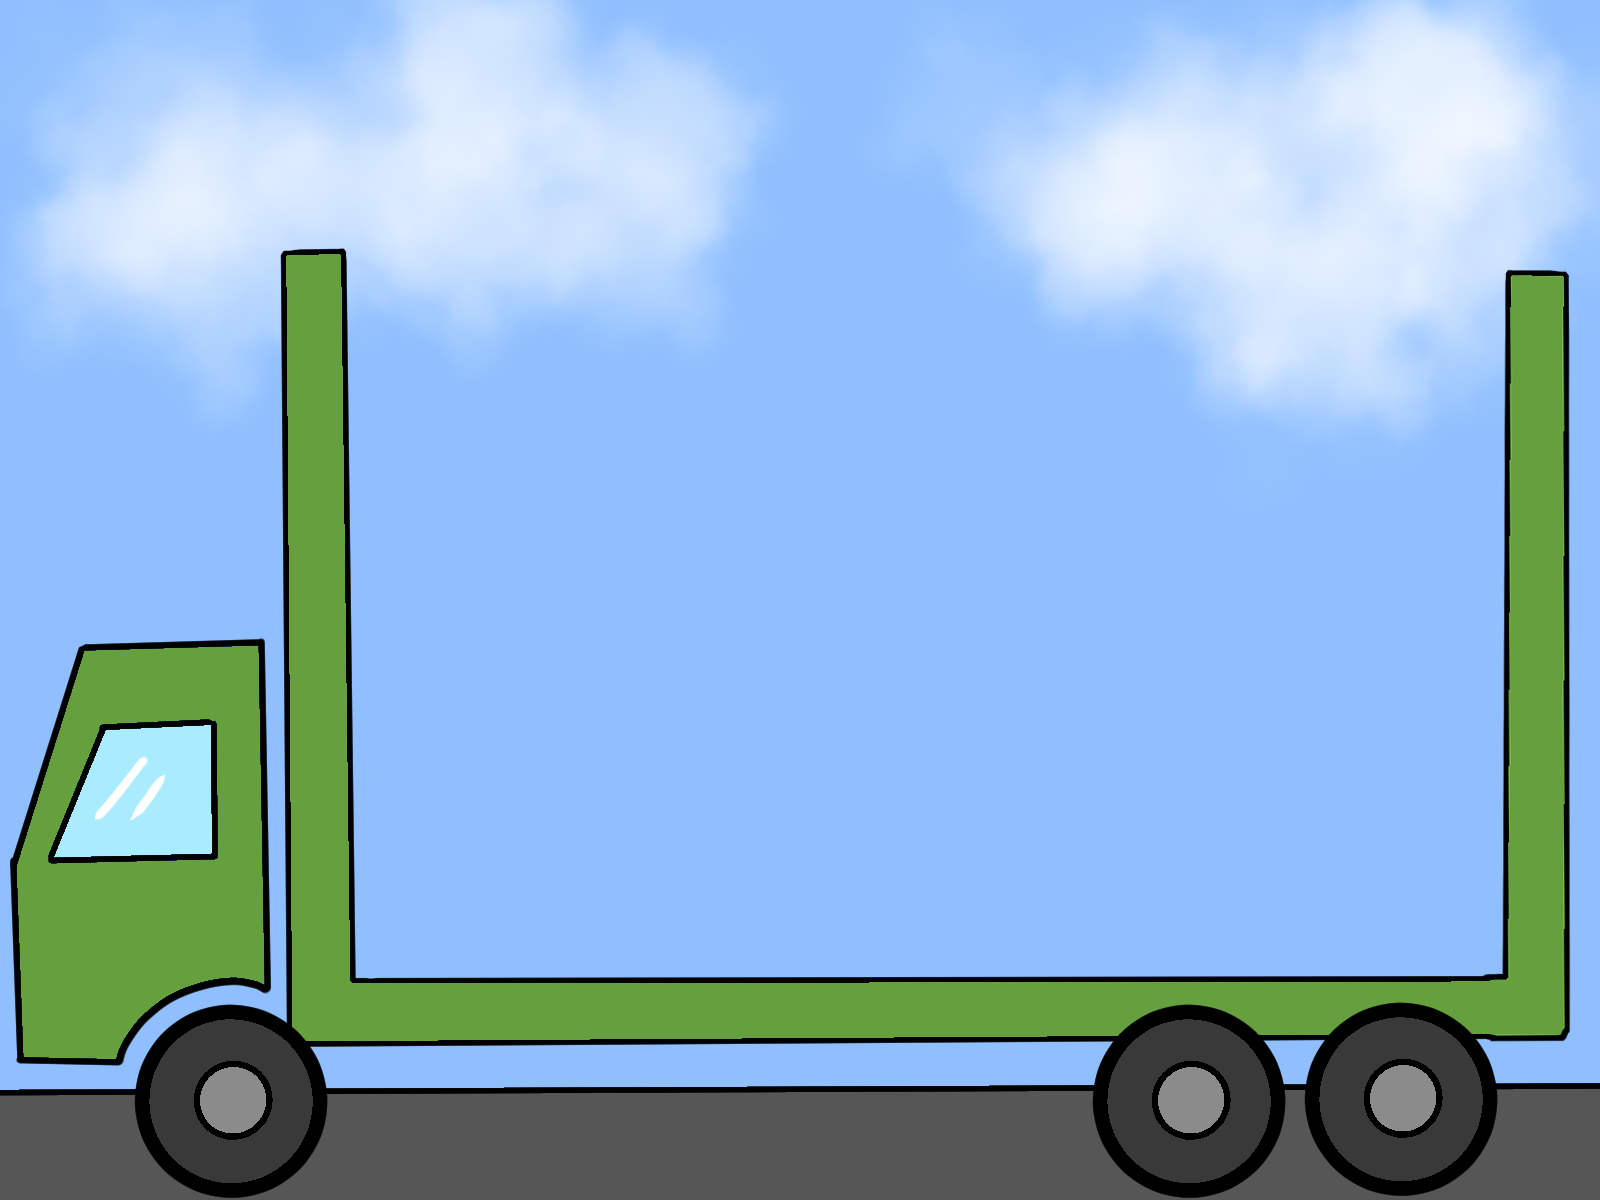
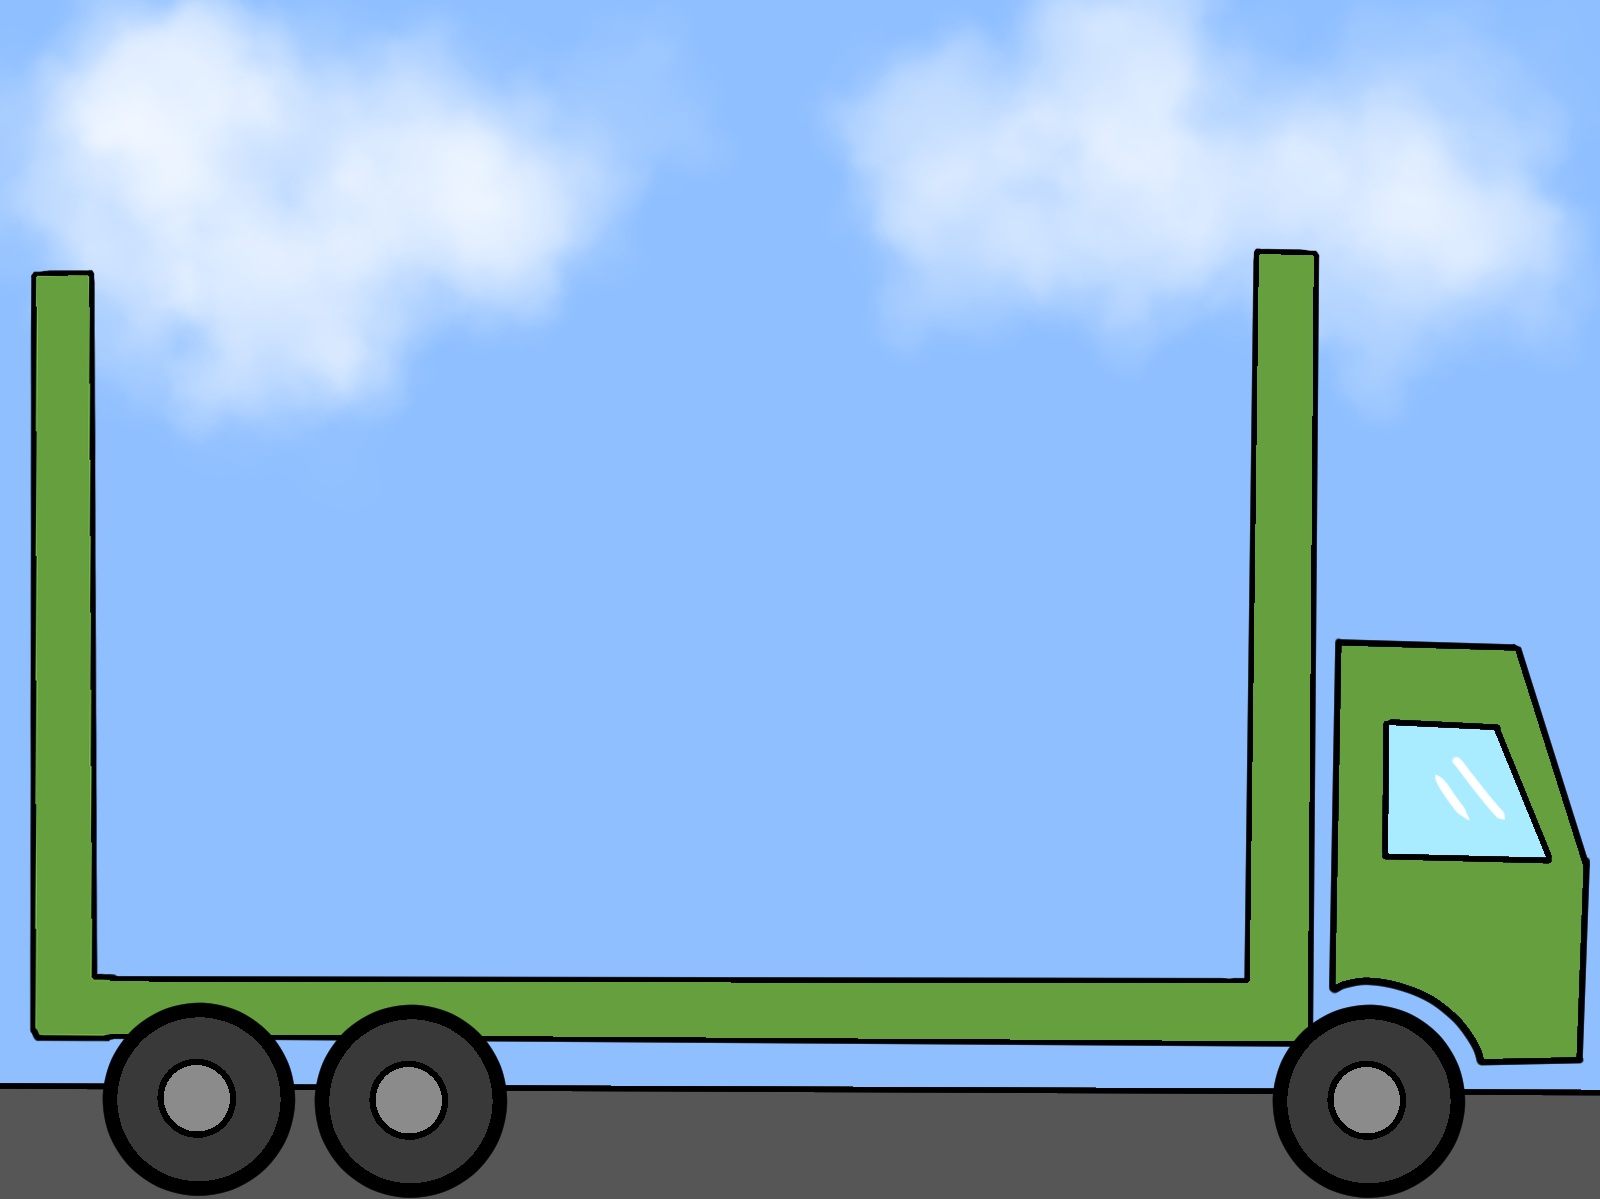
Added a background to the second loading screen.

diff --git a/EducationalApp/view.cpp b/EducationalApp/view.cpp
@@ -52,7 +52,7 @@ View::View(QWidget *parent)
     ui->loadingBackground1->setPixmap(QPixmap(":/images/images/firstLoadingScreen"));
 
     // Image setup for Second Loading Screen
-    ui->truckLabel->setPixmap(QPixmap(":/images/images/truckLoad"));
+    truckBackground = QImage(":/images/images/truck").scaled(800, 600);
     ballImage = QImage(":/images/images/recycleBall").scaled(50, 50);
     numBalls = 20;
 
@@ -255,6 +255,7 @@ void View::paintEvent(QPaintEvent *)
     // Prevents drawing balls on other screens.
     if(ui->stackWidget->currentIndex() == 5)
     {
+        painter.drawImage(0, 0, truckBackground);
         for (int i = 0; i < numBalls; i++){
             painter.drawImage(ballPositionsVector[i]->x(), ballPositionsVector[i]->y(), ballImage);
         }

diff --git a/EducationalApp/model.cpp b/EducationalApp/model.cpp
@@ -315,7 +315,7 @@ void Model::setupSecondLoadingWorld()
 {
     // Define the truck bottom body.
     b2BodyDef truckBottomBodyDef;
-    truckBottomBodyDef.position.Set(0.0f, 4.75f);
+    truckBottomBodyDef.position.Set(0.0f, 4.65f);
     b2Body* truckBottomBody = world.CreateBody(&truckBottomBodyDef);
 
     // Define the truck bottom shape.

diff --git a/EducationalApp/view.h b/EducationalApp/view.h
@@ -149,6 +149,11 @@ private:
     QImage ballImage;
 
     /**
+     * @brief truckBackground - The truck and background image drawn on the second loading screen.
+     */
+    QImage truckBackground;
+
+    /**
      * @brief Tracks when the mouse is released
      * @param event
      */
